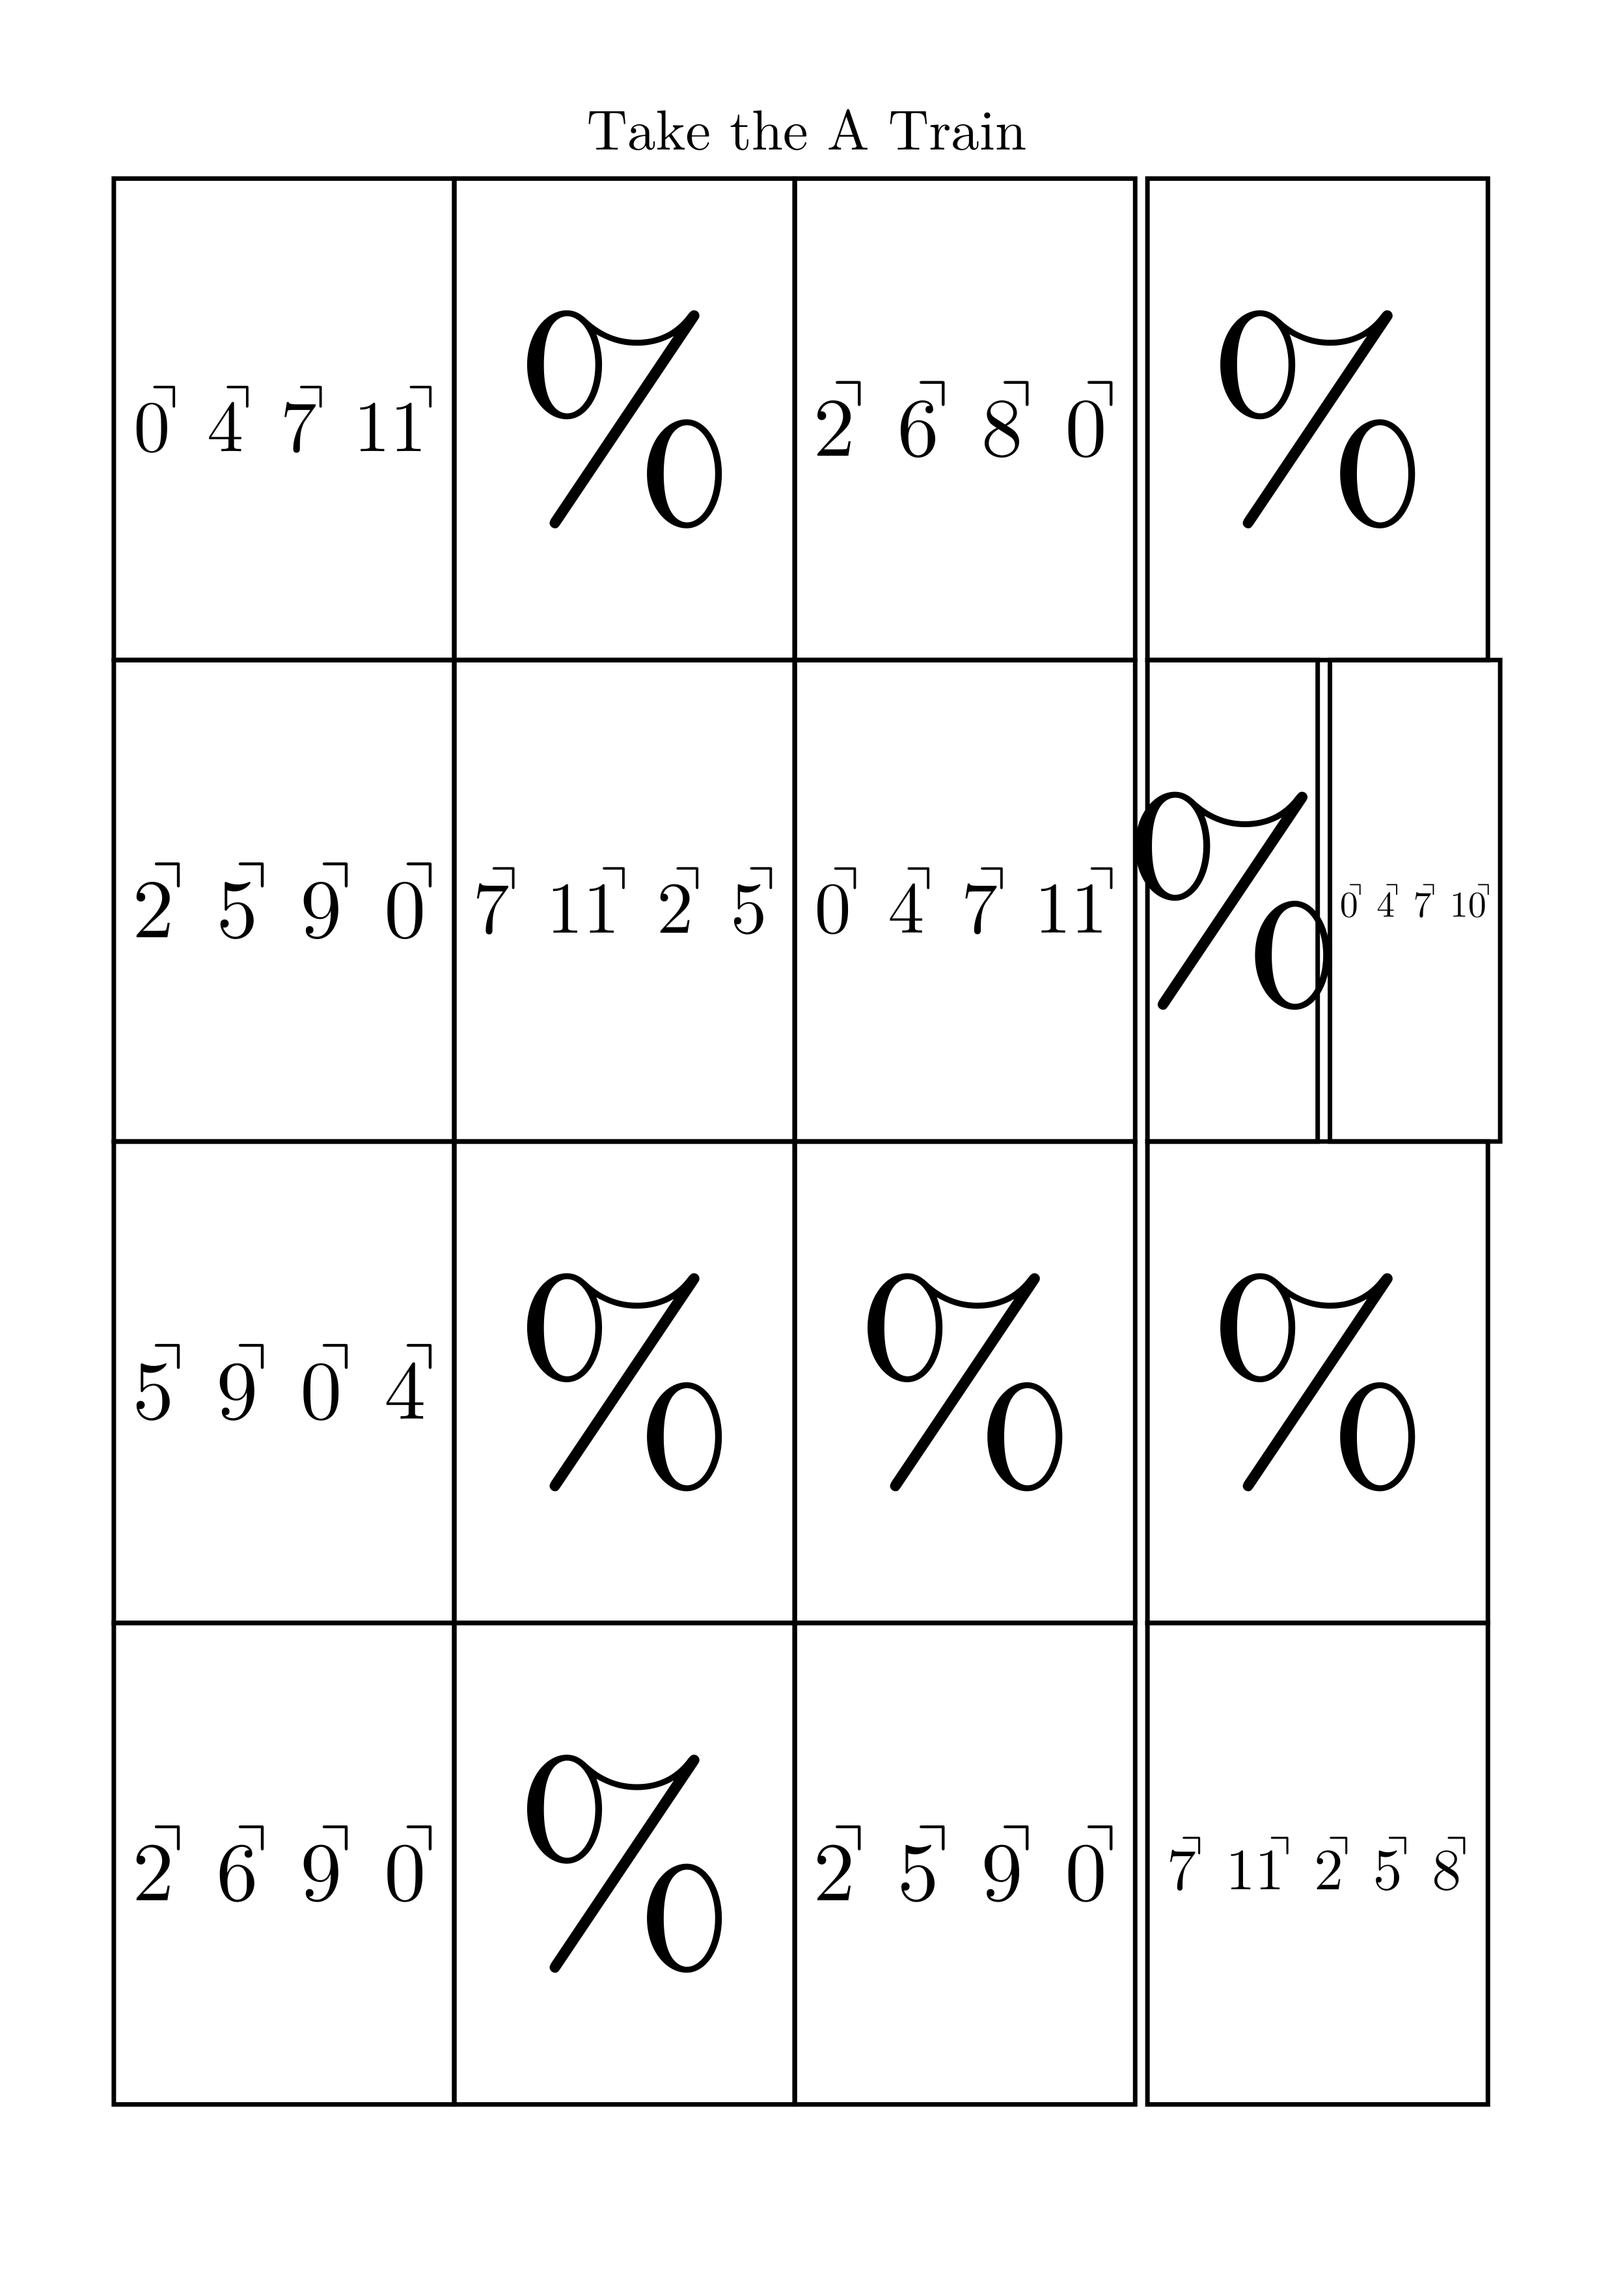
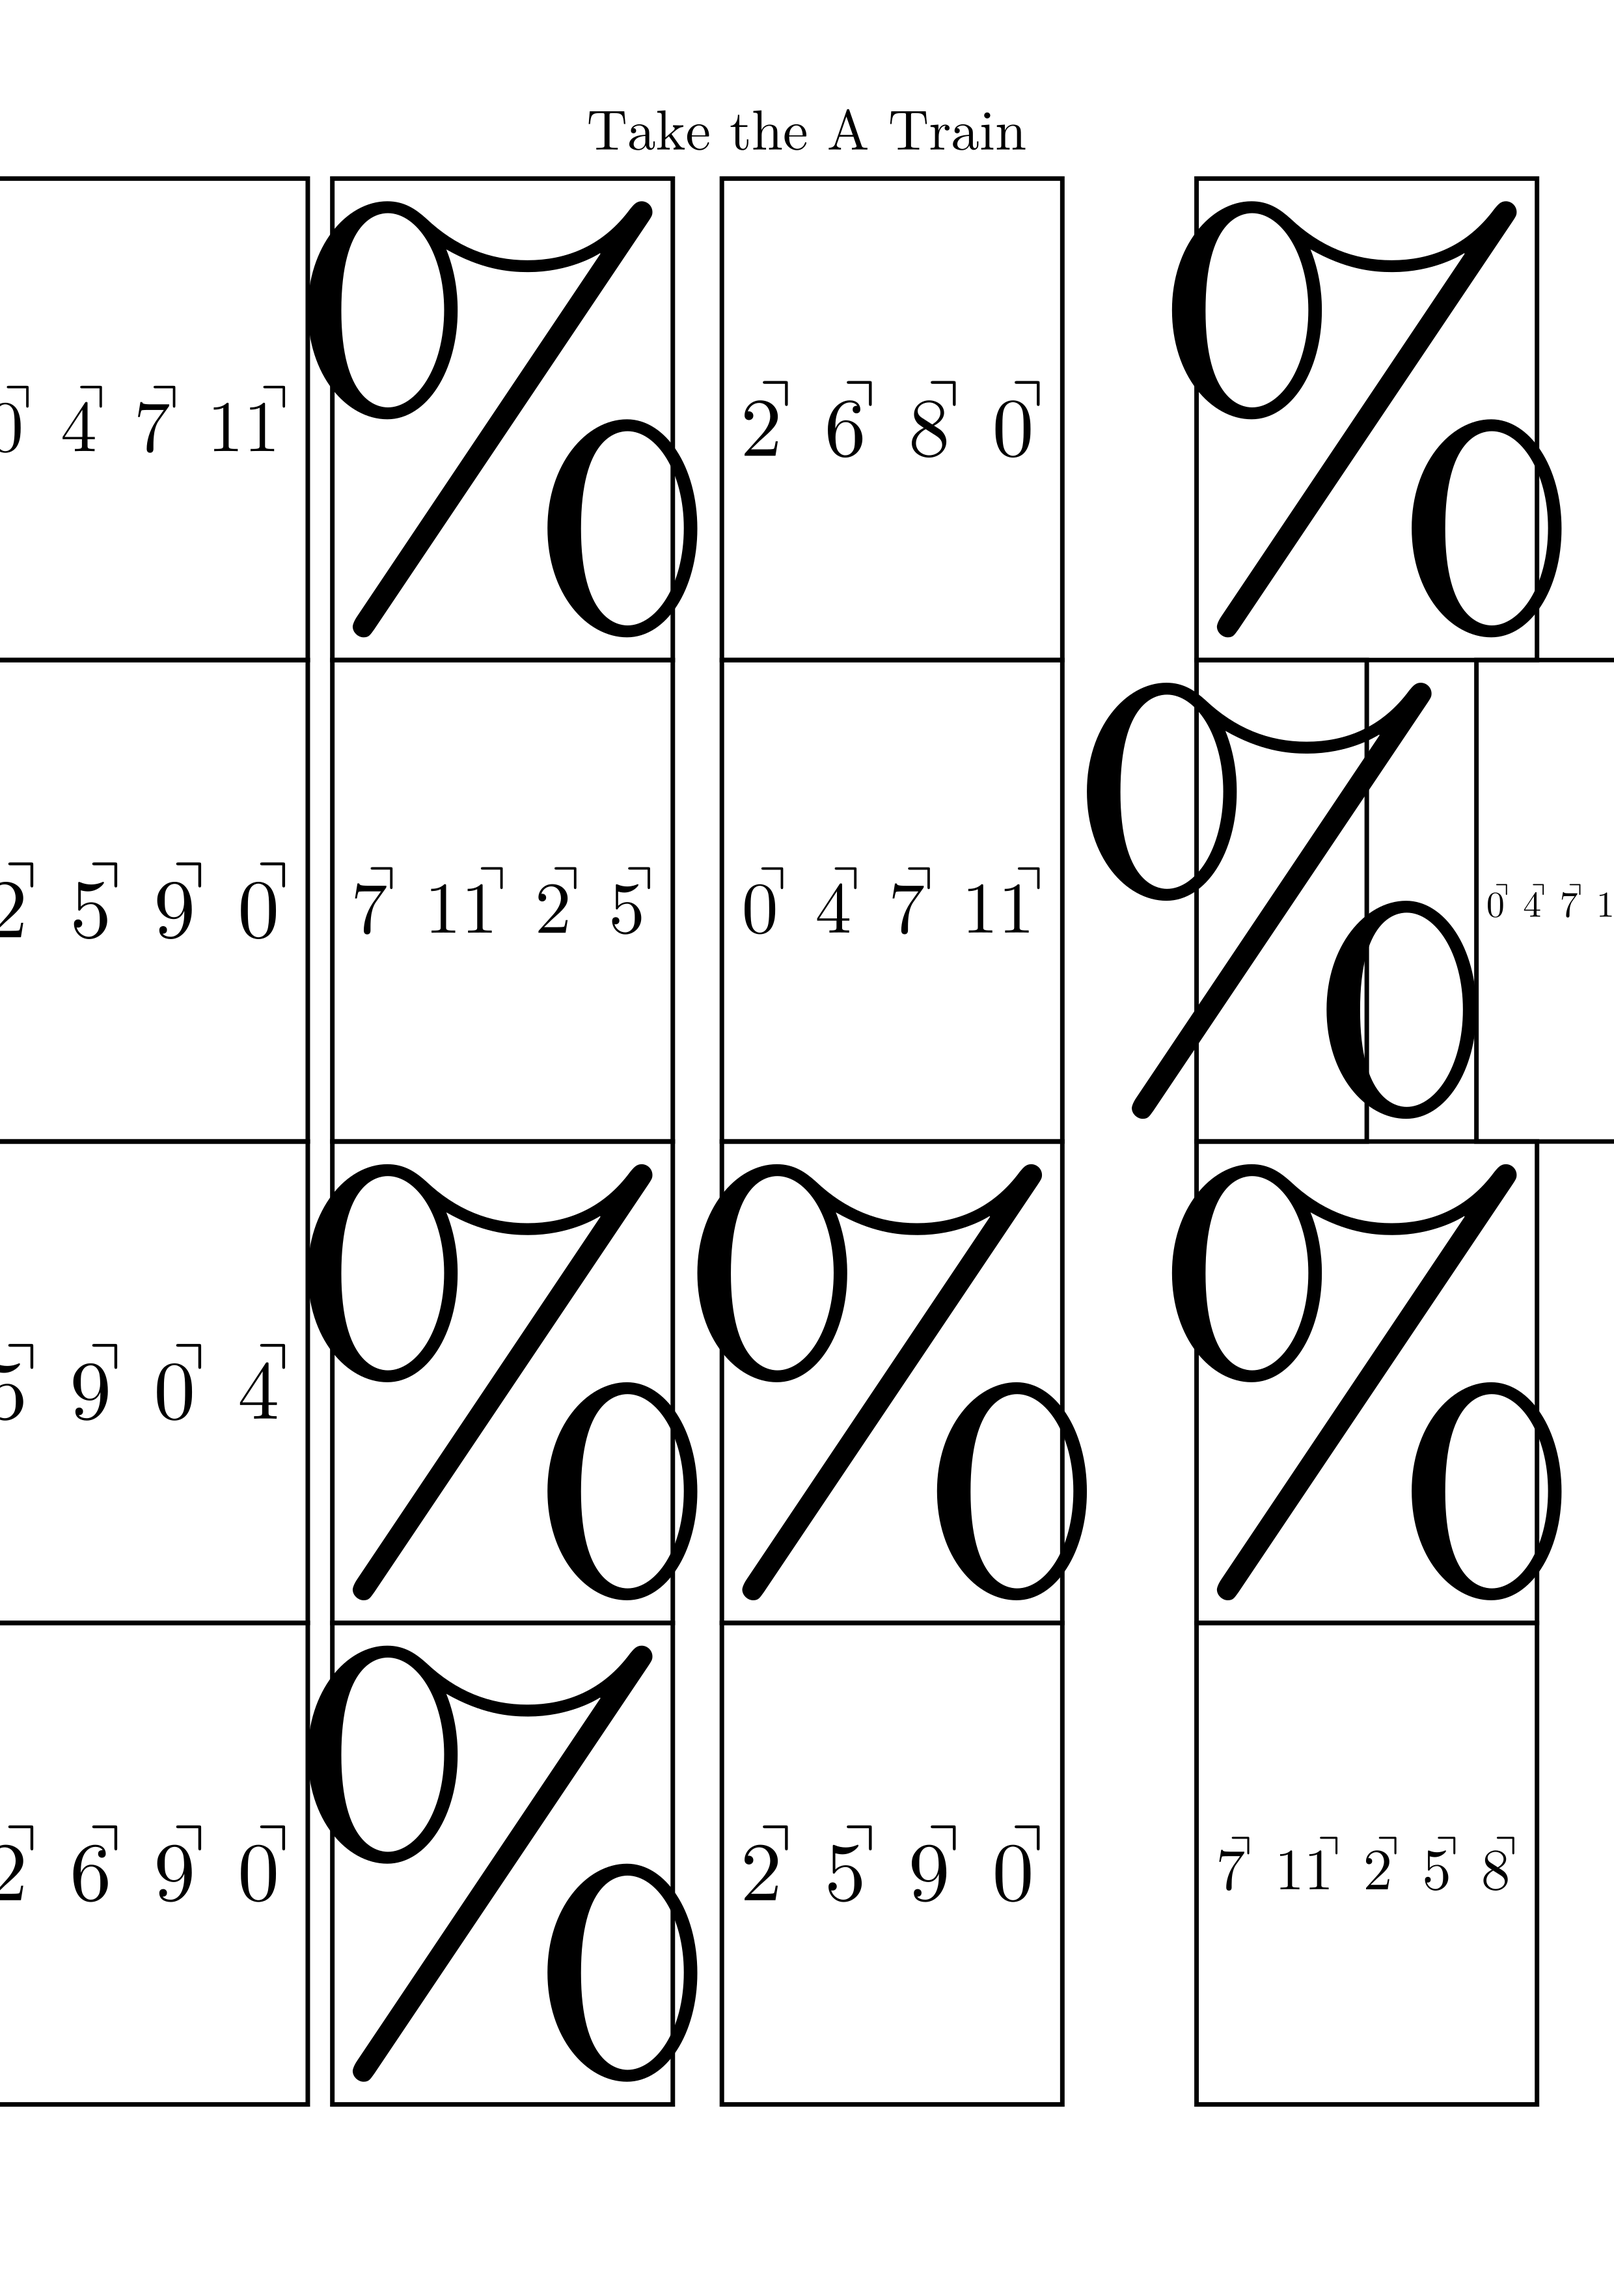
create lead sheet

diff --git a/lead_sheet_creator.py b/lead_sheet_creator.py
@@ -45,7 +45,8 @@ class TableAnimation(Scene):
                 cell.scale_to_fit_height(t_ctx.content_height)
 
             if cell.get_tex_string() == repeat_symbol:
-                cell.scale(1 / 2)
+                pass
+                #cell.scale(1 / 2)
 
         def create_table(t_ctx, tex_table_data, table_color=WHITE):
             table = VGroup()
